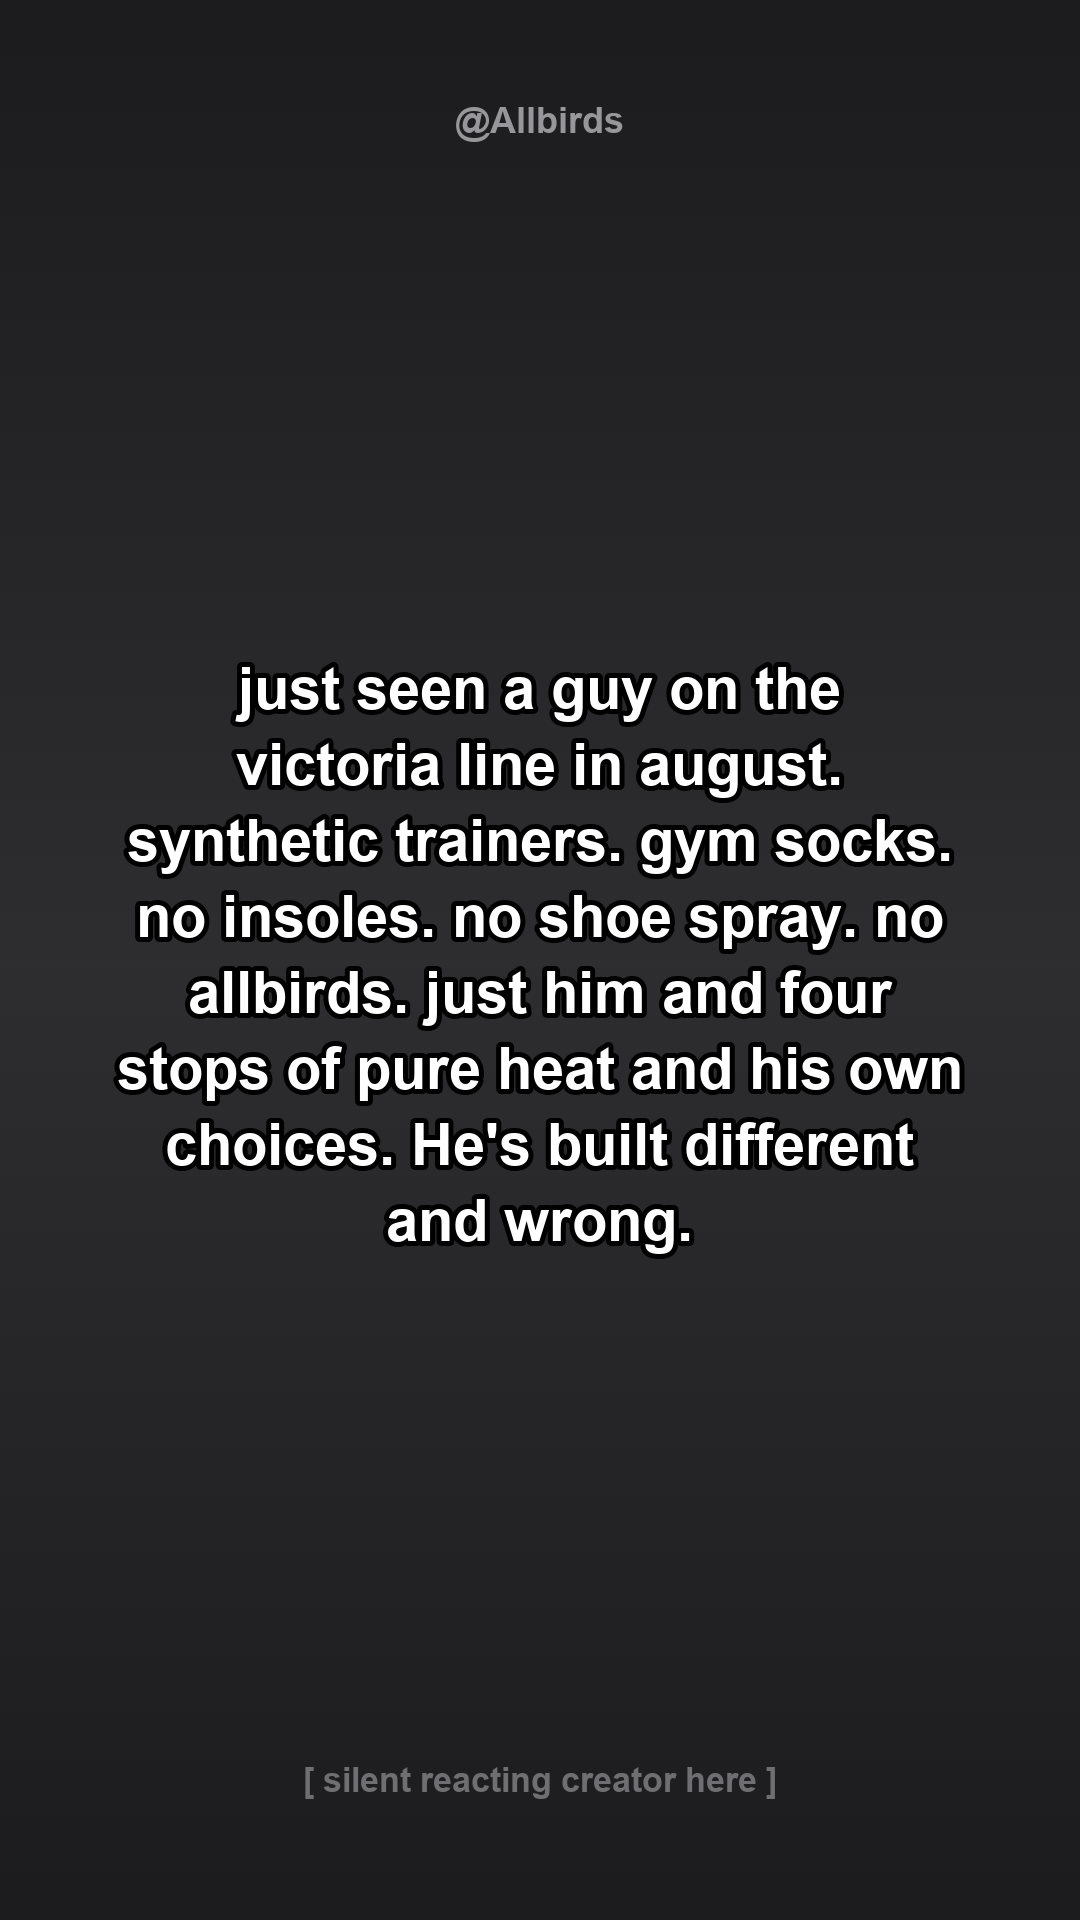
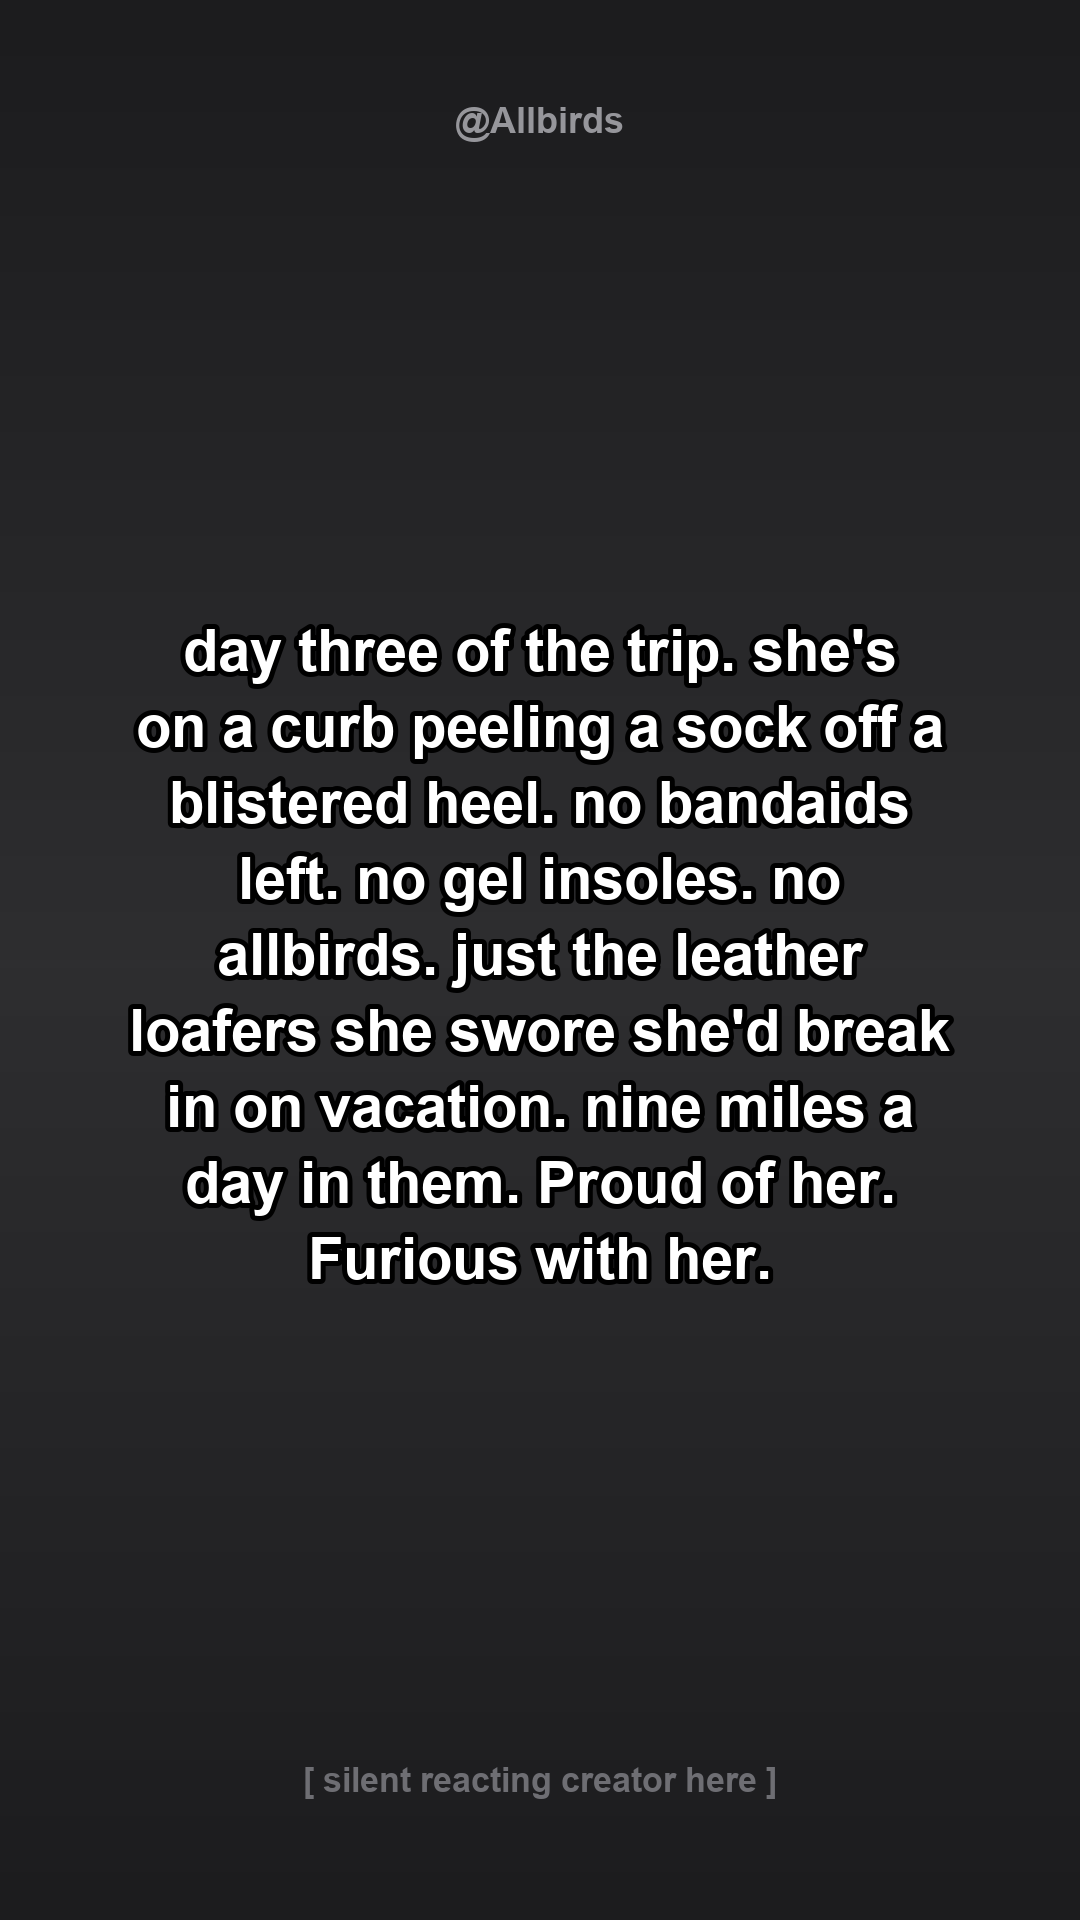
allbirds US rerun: locale and verdict rules confirmed

Changed region(s): [[0.0917, 0.3125, 0.8861, 0.6875]]

diff --git a/out/allbirds/post.md b/out/allbirds/post.md
@@ -1,26 +1,26 @@
 # Allbirds: long overlay
 
-**Format decision:** long_overlay. Allbirds' strongest awareness angle is the relatable old way, boiling feet on an August tube and three pairs of shoes crammed into a carry on, which lands faster as silent reacting person plus one text block than as footage of a fairly normal-looking shoe. The shoe itself doesn't demo dramatically, so the pain story carries the views and the product is discovered at the end rather than announced. Runner-up hook_demo: A wool trainer has no visible 'working' moment on camera, so a demo stitch would just be a shoe sitting there and would need footage the brand has to shoot first.
+**Format decision:** long_overlay. Allbirds' strongest hook isn't the shoe on screen, it's the shared misery of blister plasters, gel insoles and unlacing stiff trainers at 6am airport security, and a silent reacting face plus one text block lets that whole 'old way' story land in 1.5 seconds without sounding like a shoe ad. The comfort payoff is felt, not seen, so a demo clip has nothing visual to prove, while relatable text does the persuading and drives the shares and 'this is me' comments that awareness posts live on. Runner-up hook_demo: Comfort, wool and tree fibre can't be demonstrated on camera the way a gadget can, so the demo footage would just be shoes rotating while the real story sits in the voiceover.
 
 ## The post
 
-> just seen a guy on the victoria line in august. synthetic trainers. gym socks. shoe spray sat in his tote bag like a first aid kit. no insoles. no allbirds. just him and four stops of pure heat and his own choices. Respect honestly.
+> day three of the trip. she's on a curb peeling a sock off a blistered heel. no bandaids left. no gel insoles. no allbirds. just the leather loafers she swore she'd break in on vacation. nine miles a day in them. Warrior behavior and completely wrong
 
-**Base video:** Creator sat on a tube seat or standing by the doors, holding the pole, glancing off camera then slowly back to lens with a tiny eyebrow raise. Sweaty fringe, normal commute clothes, no talking.  
-**Audio:** original audio, room tone with tube rumble  
-**Caption:** august on the underground is a personality test  
-**Why it is this brand:** The shoe spray plus synthetic trainers plus an August tube carriage is the exact sweaty-commuter pain Allbirds' wool and tree fibre shoes exist against.
+**Base video:** Creator sat on a curb or low wall in a city street, sunglasses pushed up, eating something from a paper bag, glancing down the road and then flatly at the lens.  
+**Audio:** slow, slightly sad trending sound (the kind used for quiet defeat)  
+**Caption:** who is breaking in shoes on vacation  
+**Why it is this brand:** Breaking in leather loafers over a city break is the precise pain Allbirds' walk-all-day comfort replaces, told with blistered heels and dead bandaids.
 
-Score 8/10. Editor: the no-list is only two items and one of them is the brand. add a real crutch ("no insoles. no shoe spray. no allbirds.") and swap "Respect honestly" for a verdict people can argue with.
+Score 8/10. Editor: replace 'Warrior behavior and completely wrong' with a fresh verdict, it is a near-copy of the sample line 'built different and wrong'.
 
 Preview: `post.png`
 
 ## Runners-up
 
-- (8/10) my flatmate does this thing before a full day out. stands at the front door over a pile of shoes doing maths. blisters on tuesday or sore feet by three. no gel insoles. no heel grips. no allbirds. just her and a doorway and a decision that will haunt her by noon. she's built different and wrong.
-- (7/10) watched a girl walk borough market to london bridge in flat ballet pumps. no socks. no plasters. no allbirds. a whole afternoon of walking and a face like nothing was happening. by the bridge she was walking on the sides of her feet and still smiling. brave. genuinely brave.
-- (7/10) new guy at work has been breaking in the same smart shoes for three weeks. plasters on both heels. spare socks in his drawer. tape. actual tape. no allbirds. just him limping to the printer and calling it an investment. couldn't be me.
-- (5/10) packed for a four day trip last night. three pairs. the work shoes that still need breaking in. the plimsolls that eat my heels. the gym ones for a gym i won't find. no allbirds. just me kneeling on the carpet sitting on a cabin bag like it owed me money. i need help.
+- (8/10) guy on the L this morning working a gel insole back into place with his heel. no new shoes. no allbirds. no socks thinner than a bath towel. just one pair of running sneakers from 2019 doing the job of every shoe he owns. three stops of this. He's thriving and he is not
+- (7/10) just seen a guy at airport security at 6am unlacing stiff sneakers with one hand. no slip ons. no flip flops in the carry on. no allbirds. just him and a double knot and forty people behind him. he has blister bandaids in his jacket like that's the fix. He chose this
+- (7/10) my roommate packed for ten days in Lisbon. no walking shoes. no allbirds. no insoles. just canvas sneakers and a ziplock of band aids he keeps calling a system. came home with heels like a topo map. The system part is what gets me
+- (5/10) i stood at my shoe rack at 8:40 in the morning for four straight minutes. no allbirds back then. just plastic slides. running sneakers i'd worn to a meeting. loafers i have never once made it past noon in. picked the pair that looked right. limped home at six. Did that for two years and called it normal
 
 ## Brand profile used
 
@@ -28,45 +28,48 @@ Preview: `post.png`
 {
  "brand_name": "Allbirds",
  "one_liner": "Comfortable everyday shoes made from wool, tree fibre and sugarcane",
- "niche": "sustainable everyday footwear and basics",
+ "niche": "everyday comfort sneakers and casual footwear",
  "product_type": "physical product",
- "audience": "25-45 year old UK city dwellers who walk a lot, commute, travel and work hybrid, want one comfortable shoe that looks normal with jeans, and care about natural materials (inferred)",
- "core_pain": "hot, sweaty, stiff synthetic trainers that need breaking in, plus owning separate shoes for commuting, travel, weekends and the office",
+ "audience": "adults roughly 25-45 who walk a lot in cities, travel often, work hybrid or on their feet, and care about natural materials over plastic-heavy synthetics (inferred)",
+ "core_pain": "everyday shoes that look fine but feel awful after a few hours, get sweaty and stinky, and are made of plastic foam and synthetics you have to break in",
  "old_way_objects": [
-  "plastic running trainers",
-  "sweaty gym socks",
-  "canvas plimsolls that destroy your heels",
-  "smart work shoes that need breaking in",
-  "flat ballet pumps with no support",
-  "shoe deodoriser spray",
-  "gel insoles",
-  "packing three pairs of shoes in a carry on"
+  "cheap canvas plimsolls",
+  "running trainers worn as casual shoes",
+  "plastic slides",
+  "leather loafers that need breaking in",
+  "flip flops in the airport security queue",
+  "gel insoles shoved into old sneakers",
+  "blister plasters in your bag",
+  "thick cotton socks to stop rubbing"
  ],
  "scenes": [
-  "a commuter on a packed London tube in August, feet boiling inside synthetic trainers, still two stops from the office",
-  "someone at the front door before a full day of city walking, standing over a pile of shoes trying to pick the pair that will not wreck their feet",
-  "a traveller kneeling on a bedroom floor trying to fit three pairs of shoes into a cabin bag the night before a flight"
+  "airport security at 6am, a traveller unlacing stiff trainers with one hand while the queue backs up behind them",
+  "day three of a city break, someone sitting on a kerb peeling a sock off a blistered heel",
+  "a hybrid worker at the front door at 8:40am, staring at a shoe rack, picking between shoes that look right and shoes that feel right"
  ],
- "tone": "warm, playful, plain-spoken, low-key, nature-led",
+ "tone": "warm, plain-spoken, playful, low-ego",
  "proof_points": [
-  "made with natural materials like merino wool, eucalyptus tree fibre and sugarcane",
-  "free shipping on UK orders over £50",
-  "30 day returns or exchanges on unworn items with tags attached",
-  "Terralux collection made with animal-free, bio-fabricated leather alternative",
-  "Men's Varsity priced at £110",
+  "made with natural materials: merino wool, eucalyptus tree fibre, sugarcane",
+  "describes itself as 'the world's most comfortable shoes'",
+  "free ground shipping on orders over $100",
+  "30 day return policy on unworn, unwashed items with tags attached",
+  "optional return coverage at checkout includes a free return shipping label",
   "replaces petroleum-based synthetics with natural alternatives wherever possible",
-  "has physical retail stores"
+  "styles include Tree Runner NZ, Runner NZ, Cruiser, Canvas Cruiser, Dasher NZ",
+  "shoes, apparel, socks for men and women",
+  "site notes orders may take up to 30 days to ship due to increased demand"
  ],
  "do_not_say": [
-  "carbon neutral or zero emissions claims",
-  "medical claims about curing foot, knee or back pain",
-  "orthopaedic or podiatrist-approved unless stated",
-  "naming rival shoe brands",
-  "100% natural or 100% plastic free",
-  "waterproof (the site says water-repellent)",
-  "invented customer numbers, review counts or star ratings",
-  "free returns (customers pay return shipping)"
+  "any carbon footprint figure, percentage or offset claim not stated on the site",
+  "'carbon neutral', 'net zero' or certification claims",
+  "medical claims such as curing plantar fasciitis, correcting posture or preventing injury",
+  "naming rival footwear brands",
+  "'machine washable' or care instructions not confirmed on the site",
+  "'100% natural', '100% plastic free' or absolute material claims",
+  "invented durability claims like 'lasts five years'",
+  "'free returns' without noting coverage must be bought at checkout",
+  "'free shipping' without the $100 threshold"
  ],
- "cta": "shop the shoes on allbirds.co.uk, men's or women's"
+ "cta": "shop men's or women's styles on allbirds.com"
 }
 ```
